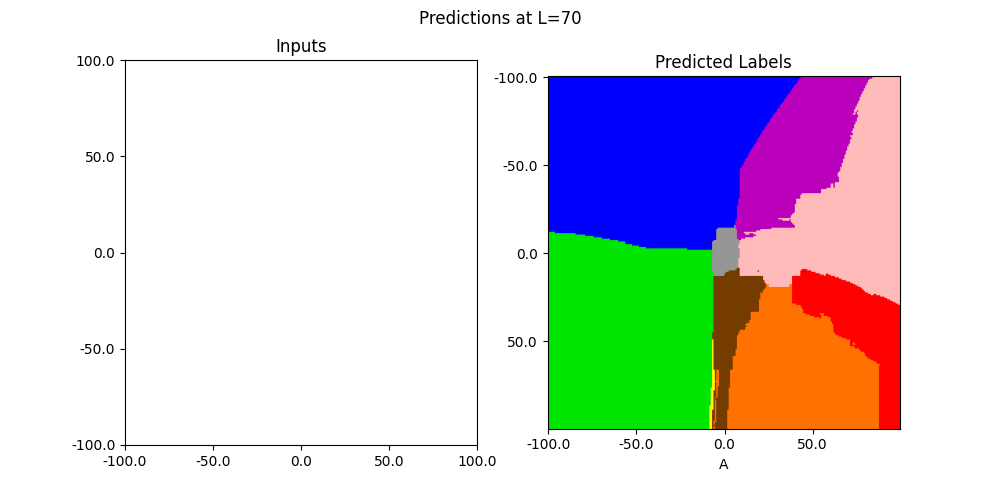
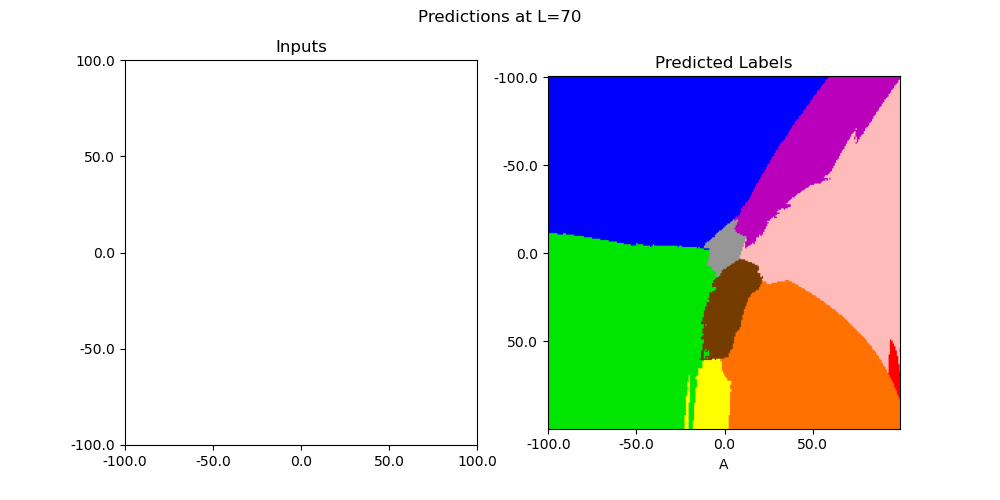
353 ass8 done with txt

diff --git a/353/ass8/e8/colour_predict.py b/353/ass8/e8/colour_predict.py
@@ -3,6 +3,7 @@ import pandas as pd
 import matplotlib.pyplot as plt
 from skimage.color import lab2rgb
 from skimage.color import rgb2lab
+from skimage.color import rgb2hsv
 import sys
 from sklearn.model_selection import train_test_split
 from sklearn.naive_bayes import GaussianNB
@@ -79,15 +80,13 @@ def main():
     data = pd.read_csv(sys.argv[1])
     X = data[['R', 'G', 'B']].values / 255
     y = data['Label'].values
-    print(type(X))
-    print(X)
 
     # TODO: create some models
     X_train, X_valid, y_train, y_valid = train_test_split(X, y, random_state=42)
 
     bayes_rgb_model = GaussianNB()
     bayes_convert_model = make_pipeline(
-        FunctionTransformer(rgb2lab),
+        FunctionTransformer(rgb2hsv),
         GaussianNB()
     )
     knn_rgb_model = KNeighborsClassifier(n_neighbors=10)

diff --git a/353/ass8/e8/weather_city.py b/353/ass8/e8/weather_city.py
@@ -26,12 +26,16 @@ def main():
     )
     model.fit(X_train, y_train)
 
-    print("Score of Random Forrest Classifier on training data:", model.score(X_train, y_train))
+    # print("Score of Random Forrest Classifier on training data:", model.score(X_train, y_train))
     print("Score of Random Forrest Classifier on validation data:", model.score(X_valid, y_valid))
 
 
     predictions = model.predict(oops_data)
-    print(predictions)
+    # print(predictions)
+
+    pd.set_option('display.max_rows', None)
+    df = pd.DataFrame({'truth': y_valid, 'prediction': model.predict(X_valid)})
+    print(df[df['truth'] != df['prediction']])
 
     pd.Series(predictions).to_csv(sys.argv[3], index=False, header=False)
 
